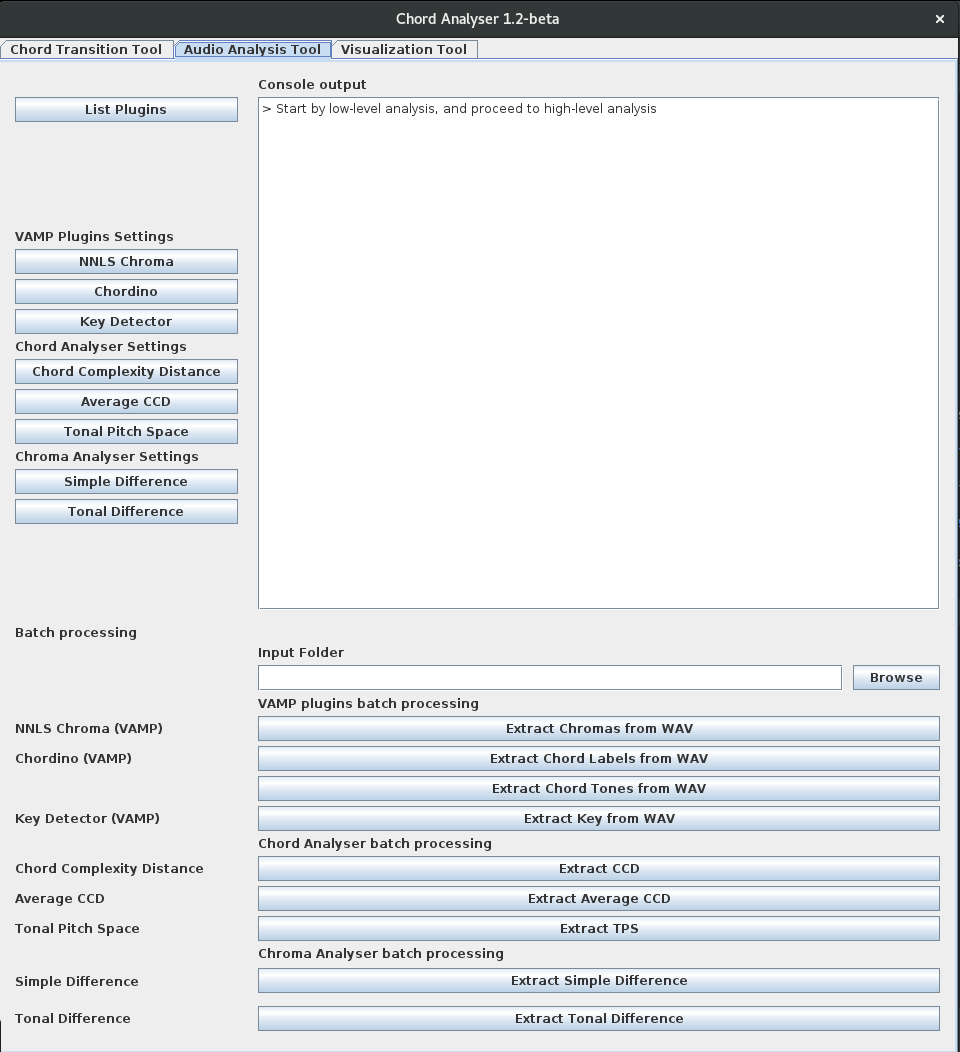
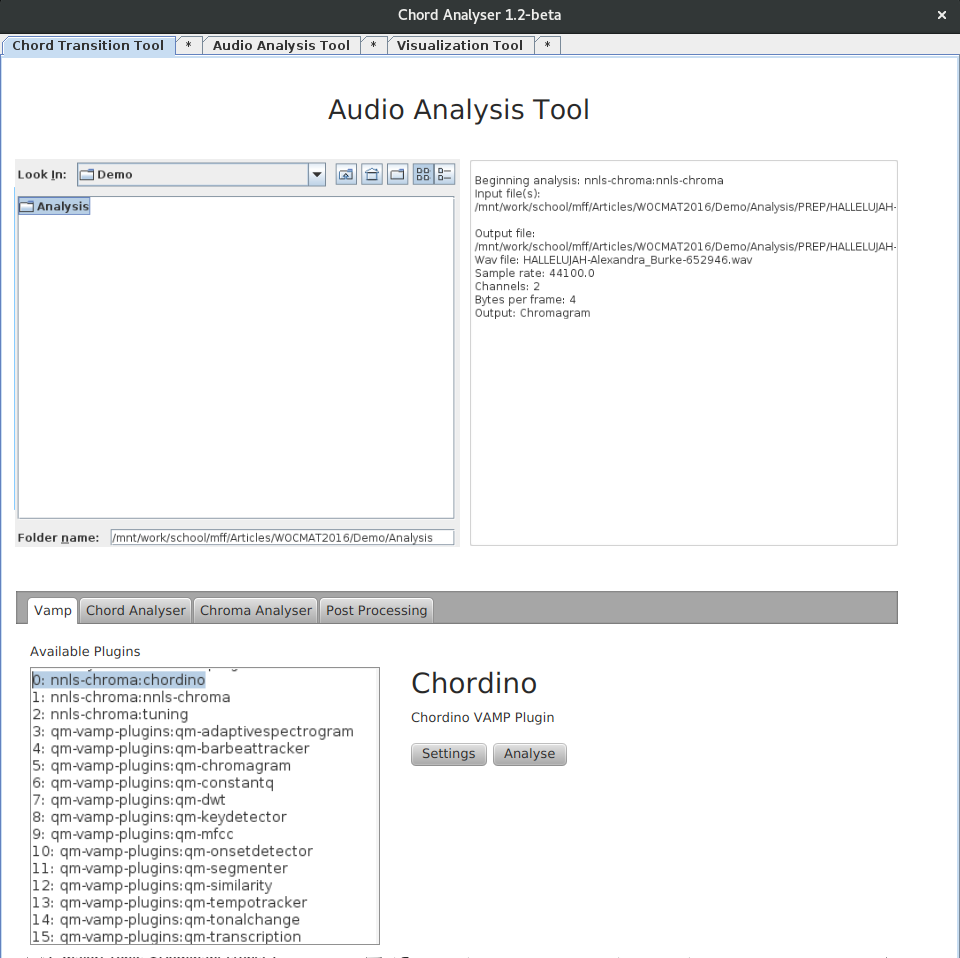
Add News, WOCMAT conference, new GUI screenshots

Changed region(s): [[0.0, 0.0, 1.0, 1.0], [0.0, 0.0908, 0.25, 0.1211]]

diff --git a/documentation/index.html b/documentation/index.html
@@ -11,7 +11,7 @@
             text-align: justify;
         }
     </style>
-        <h1>harmony-analyser documentation</h1>
+        <h1>harmony-analyser</h1>
 
         <a href="http://harmony-analyser.org">Back to main page</a>
 
@@ -34,6 +34,7 @@
                 <li><a href="#ha-visualization-tool">Visualization Tool</a></li>
             </ol>
             </li>
+            <li><a href="#publications">List of publications</a></li>
             <li><a href="#contact">Contact information</a></li>
         </ol>
 
@@ -136,7 +137,7 @@
         By hitting capture you can record two chords. Alternative way is to insert the chord in the text feel in absolute format
         (e.g. <i>C3 E3 G3</i>) or relative format (e.g. <i>C E G</i>). The tool will calculate the chord complexity of both chords and
         the transition complexity in between them.</p>
-        <img title="Chord transition tool" style="width: 40%;" src="../chord_transitions.png" /><br />
+        <img title="Chord transition tool" style="width: 40%;" src="../chord_transition_tool.png" /><br />
 
         <!-- Audio Analysis Tool -->
         <h3 id="ha-audio-analysis-tool">3.3 Audio Analysis Tool</h3>
@@ -151,10 +152,19 @@
         After hitting the analyse button, the visulizations will render. If the analysis outputs have already been created,
         the analysis will not be overriden. Instead, the files will be read from hard-drive, and the visualization
         displayed based on the information found.</p>
-        <img title="Chroma transition analysis" style="width: 40%;" src="../wonderwall_chroma_complexity.png" /><br />
+        <img title="Chroma transition analysis" style="width: 40%;" src="../visualization_tool.png" /><br />
+
+        <!-- Publications -->
+        <h2 id="publications">4. List of publications</h2>
+        <p>Find out more information about our software in the following list of scientific papers:</p>
+        <ul>
+            <li><a href="http://harmony-analyser.org/download/paper-wocmat2016-harmony-analyser.pdf">harmony-analyser.org - Java Library and Tools for Chordal Analysis</a> - in 2016 Joint WOCMAT - IRCAM Forum Conference</li>
+            <li><a href="http://artax.karlin.mff.cuni.cz/~bajel3am/itat2014/local/13_Marsik.pdf">Improving Music Classification Using Harmonic Complexity</a> - in ITAT 2014: Information Technologies - Applications and Theory (Workshop and Posters proceedings)</li>
+            <li><a href="http://ceur-ws.org/Vol-1139/paper11.pdf">Towards a Harmonic Complexity of Musical Pieces</a> - in CEUR Workshop Proceedings Vol-1139, DATESO 2014 Procedings of the 14th annual international workshop</li>
+        </ul>
 
         <!-- Contact information -->
-        <h2 id="contact">4. Contact information</h2>
+        <h2 id="contact">5. Contact information</h2>
         <p>Reach us at:</p>
         <ul>
             <li><a href="http://harmony-analyser.org">harmony-analyser.org</a></li>

diff --git a/index.php b/index.php
@@ -76,15 +76,16 @@
 <body>
 
 	<div id="header-wrapper">
-		<div id="header" style="font-size: 0.7em;">
+		<div id="header" style="font-size: 0.6em;">
 			<p>
 				harmony-analyser.org
 			</p>
 			<a href="https://github.com/lacimarsik/harmony-analyser" title="Repository" target="_blank">Repository</a>
+			<a href="#news" title="News">News</a>
 			<a href="#releases" title="Releases">Releases</a>
 			<a href="#screenshots" title="Screenshots">Screenshots</a>
 			<a href="documentation" title="Documentation">Documentation</a>
-			<a href="http://www.ksi.mff.cuni.cz/en/~marsik" title="Publications">Publications</a>
+			<a href="http://www.ksi.mff.cuni.cz/en/software.php?sw=45" title="Publications">Publications</a>
 			<a href="#contact" title="Contact">Contact</a>
 		</div>
 	</div>
@@ -104,6 +105,12 @@
 			<p>harmony-analyser tools and JHarmonyAnalyser library are licenced under the <a href="https://github.com/lacimarsik/harmony-analyser/blob/master/LICENSE.txt" target="_blank">GNU GPL License</a>.</p>
 				<p>Tools are compatible with GPL Licensed <a target="_blank" href="http://vamp-plugins.org" target="_blank">Vamp plugins</a> which can be used for additional analysis.</p>
 			<p>To contribute, please follow our guideline in <a href="https://github.com/lacimarsik/harmony-analyser" target="_blank">GitHub repository</a>.</p>
+		</div>
+		<div id="news">
+			<h3>News</h3>
+			<p style="text-align: left; padding-bottom: 0;">2016-12-16 We were on <a href="http://wocmat-ircam.strikingly.com/">2016 Joint WOCMAT - IRCAM Forum Conference</a>! Check out the contribution <a href="http://harmony-analyser.org/download/paper-wocmat2016-harmony-analyser.pdf">paper</a> or <a href="http://harmony-analyser.org/download/presentation-wocmat2016-harmony-analyser.pdf">presentation</a>.</p>
+			<p style="text-align: left; padding-bottom: 0;">2016-12-07 Preparing the new GUI for version 1.2 - see sneak peak in the <a href="#screenshots">screenshots</a>.</p>
+			<p style="text-align: left; padding-bottom: 0;">2016-09-19 Version <a href="#current-release">1.1</a> is now available (new Chroma distances and visualizations).</p>
 		</div>
 		<div id="releases">
 			<h3>Releases</h3>
@@ -153,22 +160,19 @@
 
 		<div id="screenshots">
 			<h3>Screenshots of available tools</h3>
-			<p>Visualization tool (Chord distances)</p>
-			<img title="Chord distances" src="chord_distances.png" /><br />
-			<p>Visualization tool (Chord segmentation)</p>
-			<img title="Chord segmentation" src="somebody_segmentation.png" /><br />
-			<p>Visualization tool (Chroma differences - experimental)</p>
-			<img title="Chroma differences" src="wonderwall_chroma_complexity.png" /><br />
 			<p>Chord transition tool</p>
-			<img title="Chord transition tool" src="chord_transitions.png" /><br />
+			<img title="Chord transition tool" src="chord_transition_tool.png" /><br />
 			<p>Audio analysis tool</p>
 			<img title="Audio analysis tool" src="audio_analysis_tool.png" /><br />
+			<p>Visualization tool</p>
+			<img title="Visualization tool" src="visualization_tool.png" /><br />
 		</div>
 
-		<div id="contact">
+		<div id="contact" style="margin: 15px 120px; text-align: center;">
 			<h3>Contact</h3>
-			<p>Contact us at:</p>
-			<p><a href="mailto: marsik@ksi.mff.cuni.cz">marsik [at] ksi.mff.cuni.cz</a></p>
+			<div style="line-height: 1em; padding-bottom: 5px; text-align: left;">GitHub: <a href="https://github.com/lacimarsik/harmony-analyser">https://github.com/lacimarsik/harmony-analyser</a></div>
+			<div style="line-height: 1em; padding-bottom: 5px; text-align: left;">e-mail: <a href="mailto: marsik@ksi.mff.cuni.cz">marsik@ksi.mff.cuni.cz</a></div>
+			</ul>
 		</div>
 	</div>
 
